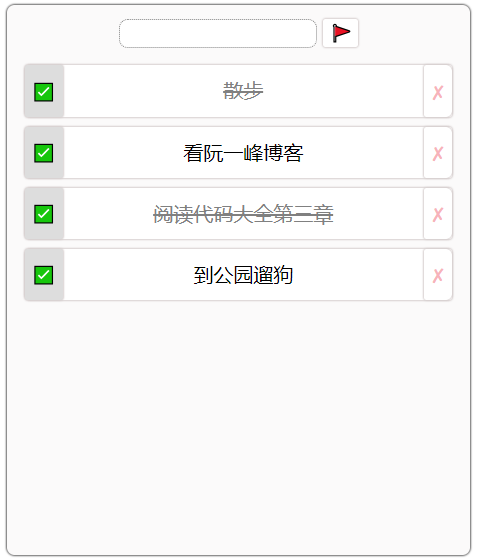
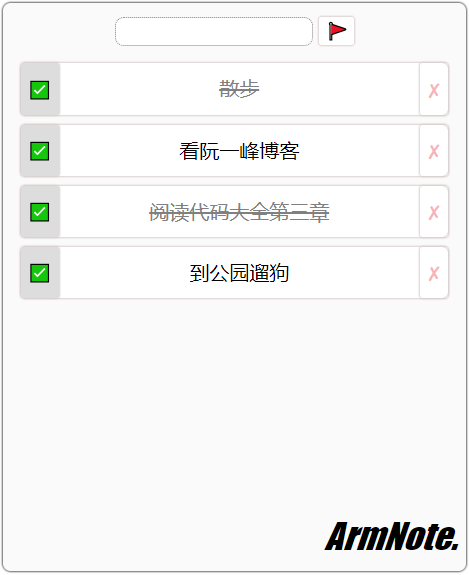
v0.3

Changed region(s): [[0.0, 0.0, 1.0, 1.0]]

diff --git a/DoTo.html b/DoTo.html
@@ -7,6 +7,7 @@
 	<title>DoTos</title>
 	<style>
 		.main {
+			position: relative;
 			background-color: #fbfafa;
 		    width: 350px;
 		    padding: 10px;
@@ -15,7 +16,7 @@
 		    box-shadow: 0px 0px 1px 1px #656565;
 		    margin: 0 auto;
 		    text-align: center;
-		    padding-bottom: 30px;
+		    padding-bottom: 44px;
 		}
 		.done span {
 			text-decoration: line-through;
@@ -70,6 +71,16 @@
 		    border: 0;
 		    box-shadow: 0px 0px 1px 1px #d7cfcf;
 		}
+		.armtarget {
+			font-size: 180%;
+		    font-family: fantasy;
+		    font-style: italic;
+	        position: absolute;
+		    right: 7px;
+		    color: firebrick;
+		    bottom: -19px;
+		    opacity: 0.76;
+		}
 	</style>
 </head>
 <body>
@@ -81,6 +92,7 @@
 
 		<div id=id-div-todocontainer>
 		</div>
+		<p class="armtarget">ArmNote.</p>
 	</div>
 
 	<!-- <div id=id-div-inputadd>
